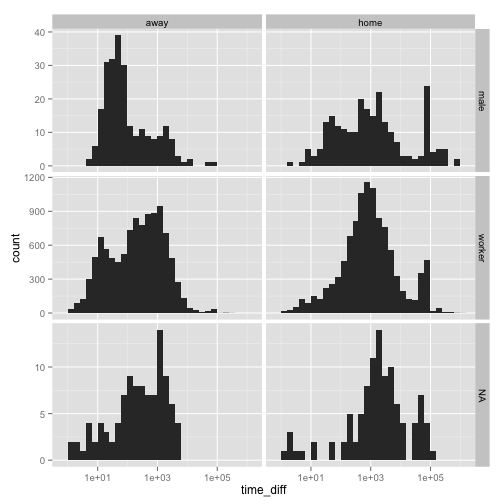
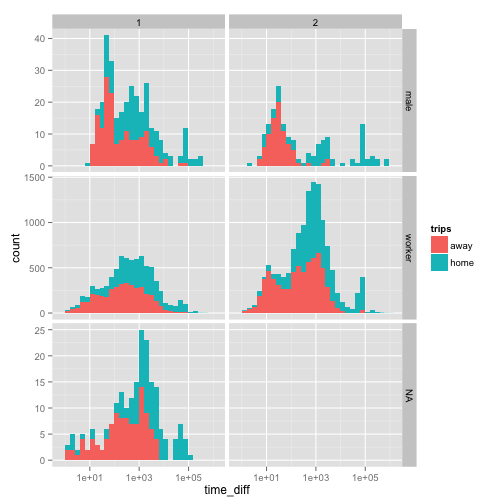
Re-knit

diff --git a/vignettes/make-wasp-data.md b/vignettes/make-wasp-data.md
@@ -128,8 +128,8 @@ ggplot(wasp, aes(hour_of_day)) + geom_histogram(aes(fill = trips)) + facet_grid(
 
 
 ```r
-ggplot(wasp, aes(time_diff)) + geom_histogram() + facet_grid(caste ~ trips, 
-    scales = "free_y") + scale_x_log10()
+ggplot(wasp, aes(time_diff)) + geom_histogram(aes(fill = trips)) + facet_grid(caste ~ 
+    group, scales = "free_y") + scale_x_log10()
 ```
 
 ![plot of chunk unnamed-chunk-9](figure/unnamed-chunk-9.png) 
